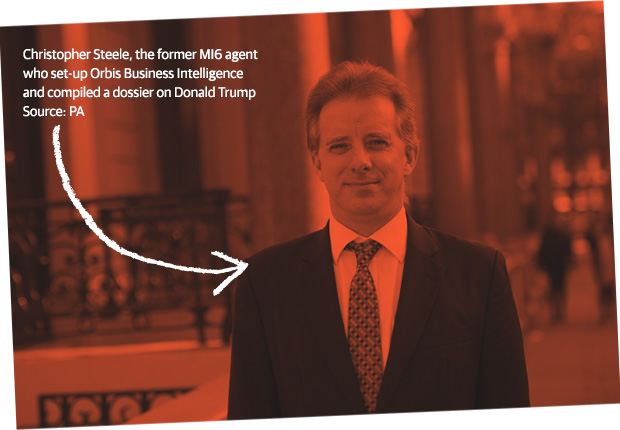
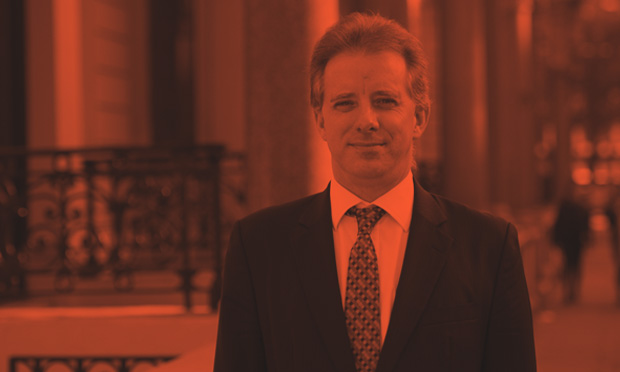
styling captions

diff --git a/src/js/modules/question.js b/src/js/modules/question.js
@@ -196,9 +196,11 @@ module.exports =  {
 
     enhancePhotos: function(id) {
         $('#' + id + ' .mapped-card__copy img').each(function(i, img) {
-            if (!$(img).hasClass('is-enhanced') && $(img).attr('alt') === 'Photo') {
+            if (!$(img).hasClass('is-enhanced') && $(img).attr('alt').slice(0, 8) === 'Photo - ') {
                 $(img).attr('src', function() { return '@@assetPath@@/assets/images/photos/' + $(this).attr('src') + '.jpg' });
                 $(img).addClass('is-enhanced');
+                $(img).append
+                $(img)[0].outerHTML = '<div class=\'mapped-card__image\'>' + $(img)[0].outerHTML + '<span class=\'mapped-card__caption\'>' + $(img).attr('alt').slice(8) + '</span></div>';
             }
         });
     },

diff --git a/src/sass/partials/_card.scss b/src/sass/partials/_card.scss
@@ -257,6 +257,30 @@
     }
 }
 
+.mapped-card__image {
+    position: relative;
+
+    img {
+        width: 100%;
+        transform: rotate(-2deg) scale(.9);
+    }
+}
+
+.mapped-card__caption {
+    color: $c-white;
+    font-family: 'Guardian Sans Web';
+    font-size: 14px;
+    line-height: 1.3;
+    position: absolute;
+    top: 11%;
+    left: 7%;
+    width: 50%;
+
+    @include mq(tablet) {
+        width: 33%;
+    }
+}
+
 .mapped-card__chart {
     @include mq(desktop) {
         padding: 6px;
